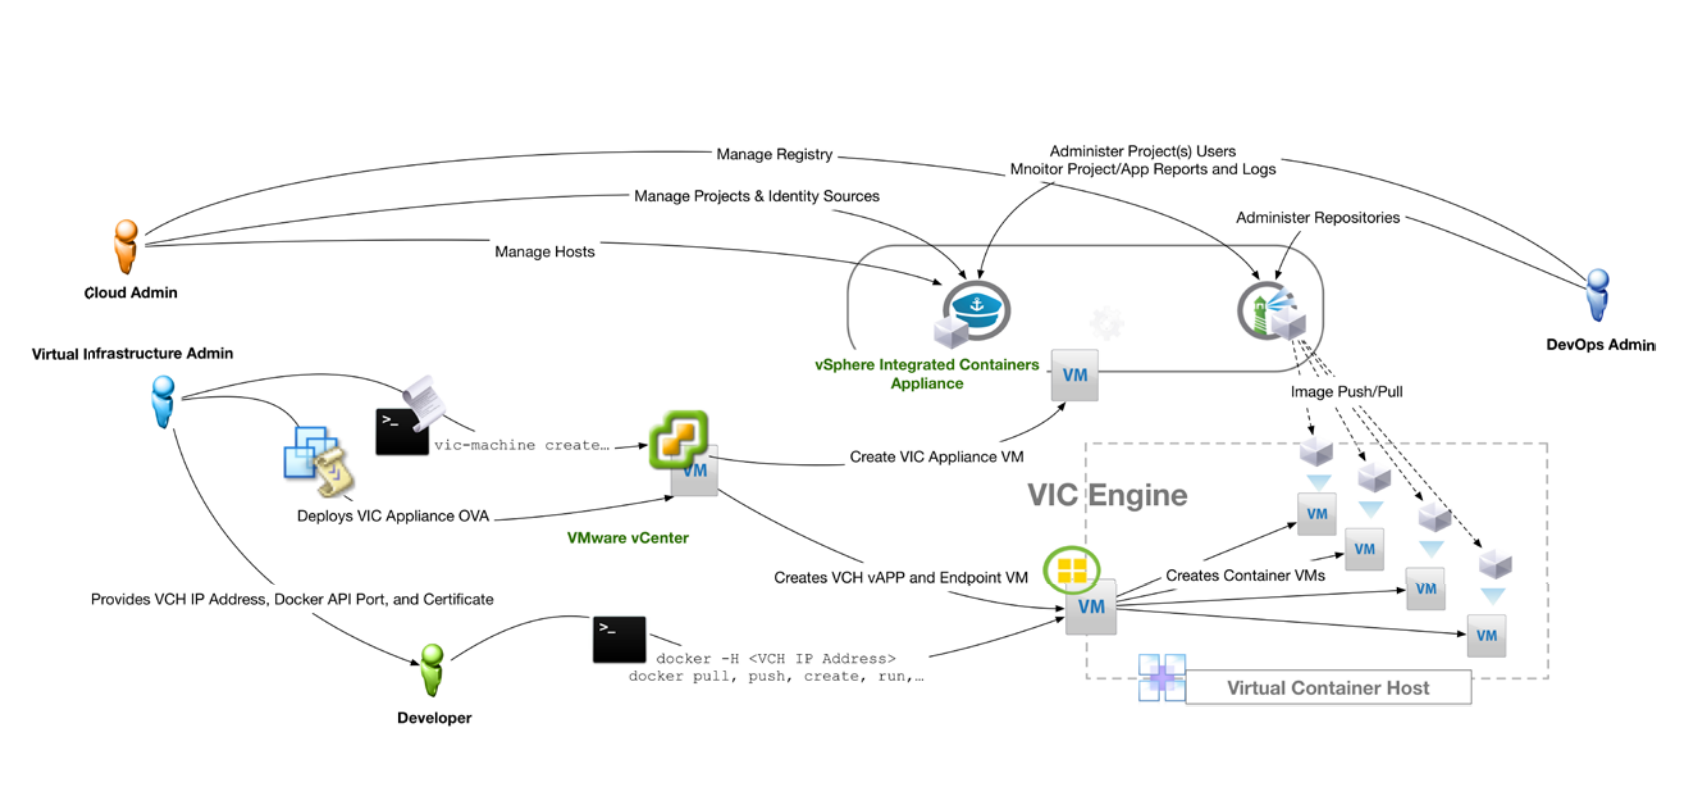
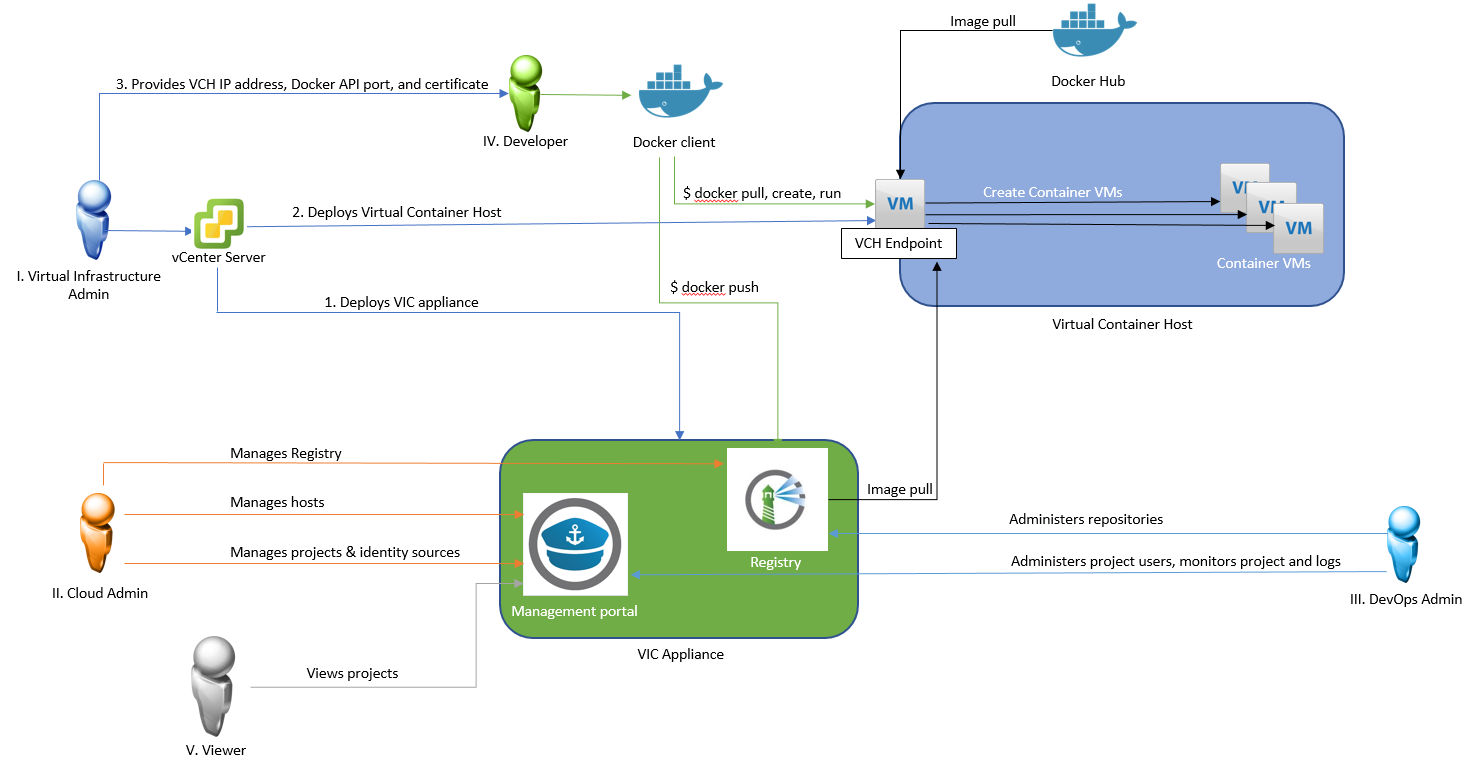
Highlight roles and personas

diff --git a/docs/user_doc/vic_overview/introduction.md b/docs/user_doc/vic_overview/introduction.md
@@ -82,8 +82,6 @@ These components currently support the Docker image format. vSphere Integrated C
 
 vSphere Integrated Containers is designed to solve many of the challenges associated with putting containerized applications into production. It directly uses the clustering, dynamic scheduling, and virtualized infrastructure in vSphere and bypasses the need to maintain discrete Linux VMs as container hosts.
 
-![vSphere Integrated Containers Conceptual Overview](graphics/conceptual-overview.png)
-
 vSphere Integrated Containers allows the vSphere administrator to provide a container management endpoint to a user as a service. At the same time, the vSphere administrator remains in complete control over the infrastructure that the container management endpoint service depends on. The main differences between vSphere Integrated Containers and a classic container environment are the following:
 
 - vSphere, not Linux, is the container host:
@@ -242,41 +240,6 @@ You can pull users from the Platform Services Controller and assign them roles t
 
 You can deploy multiple vSphere Integrated Containers appliances to the same vCenter Server instance. Also, if a Platform Services Controller manages multiple vCenter Server instances, you can deploy multiple appliances to different vCenter Server instances that share that Platform Services Controller. In either of these setups, the appliances all register with the same Platform Services Controller, and can pull users from that Platform Services Controller. These setups allow the same user to have different roles in different vSphere Integrated Containers instances.
 
-
-#### Users and Roles <a id="usersandroles"></a>
-	
-vSphere Integrated Containers features four roles for user access. The viewer role has the lowest level of access with the global administrator having the highest. Permissions per role are described below, as every next role inherits the permissions of the previous role and has additional ones.
-
-**Viewer**
-
-Role assigned per project.
-- If assigned, role only has view access to the repositories for a project.
-
-**Developer**
-
-Role assigned per project. In addition to the view access, a developer can also:
-- Provision containers
-- Push images
-- Create and import templates
-
-**DevOps Administrator**
-
-Role assigned per project. For their assigned projects DevOps administrators can perform additional actions:
-- Add developers and viewers and assign other DevOps administrators
-- Change the project configurations, such as making the project registry public, changing deployment security settings, and enabling vulnerability scanning
-
-**Cloud administrator / Global Administrator for all projects**
-
-The cloud administrator role is assigned to the Administrators group for vCenter Server during the installation of vSphere Integrated Containers. Through the management portal, you can revoke that role for the Administrators group, only after you assign the role to another group. Cloud administrators can also assign the role to individual users.
-
-The following global permissions are unique to the cloud administrator role:
-- Add new cloud administrators
-- Create new projects and assign the first DevOps administrator to them
-- Add hosts and clusters as resources to a given project
-- Add and manage registries, replication endpoints, and replication rules
-- Add predefined credentials and certificates for authentication
-- Set global configurations for registries handling
-- View system logs
 
 ##### Example Users #####
 

diff --git a/docs/user_doc/vic_overview/users_and_personas.md b/docs/user_doc/vic_overview/users_and_personas.md
@@ -1,0 +1,38 @@
+# Roles and Personas #
+
+vSphere Integrated Containers needs the Virtual Infrastructure Admin and features four additional roles for user access. The viewer role has the lowest level of access with the global administrator having the highest. 
+
+![vSphere Integrated Containers Conceptual Overview](graphics/conceptual-overview.png)
+
+Permissions per role are described below in reversed order, as every next role listed, inherits the permissions of the previous role and has additional ones.
+
+**V. Viewer**
+
+Role assigned per project.
+- If assigned, role only has view access to the repositories for a project.
+
+**IV. Developer**
+
+Role assigned per project. In addition to the view access, a developer can also:
+- Provision containers
+- Push images
+- Create and import templates
+
+**III. DevOps Administrator**
+
+Role assigned per project. For their assigned projects DevOps administrators can perform additional actions:
+- Add developers and viewers and assign other DevOps administrators
+- Change the project configurations, such as making the project registry public, changing deployment security settings, and enabling vulnerability scanning
+
+**II. Cloud administrator / Global Administrator for all projects**
+
+The cloud administrator role is assigned to the Administrators group for vCenter Server during the installation of vSphere Integrated Containers. Through the management portal, you can revoke that role for the Administrators group, only after you assign the role to another group. Cloud administrators can also assign the role to individual users.
+
+The following global permissions are unique to the cloud administrator role:
+- Add new cloud administrators
+- Create new projects and assign the first DevOps administrator to them
+- Add hosts and clusters as resources to a given project
+- Add and manage registries, replication endpoints, and replication rules
+- Add predefined credentials and certificates for authentication
+- Set global configurations for registries handling
+- View system logs

diff --git a/docs/user_doc/vic_overview/SUMMARY.md b/docs/user_doc/vic_overview/SUMMARY.md
@@ -4,3 +4,4 @@
 
 * [Introduction](README.md)
 * [Overview of vSphere Integrated Containers](introduction.md)
+* [Roles and Personas](roles_and_personas.md)
